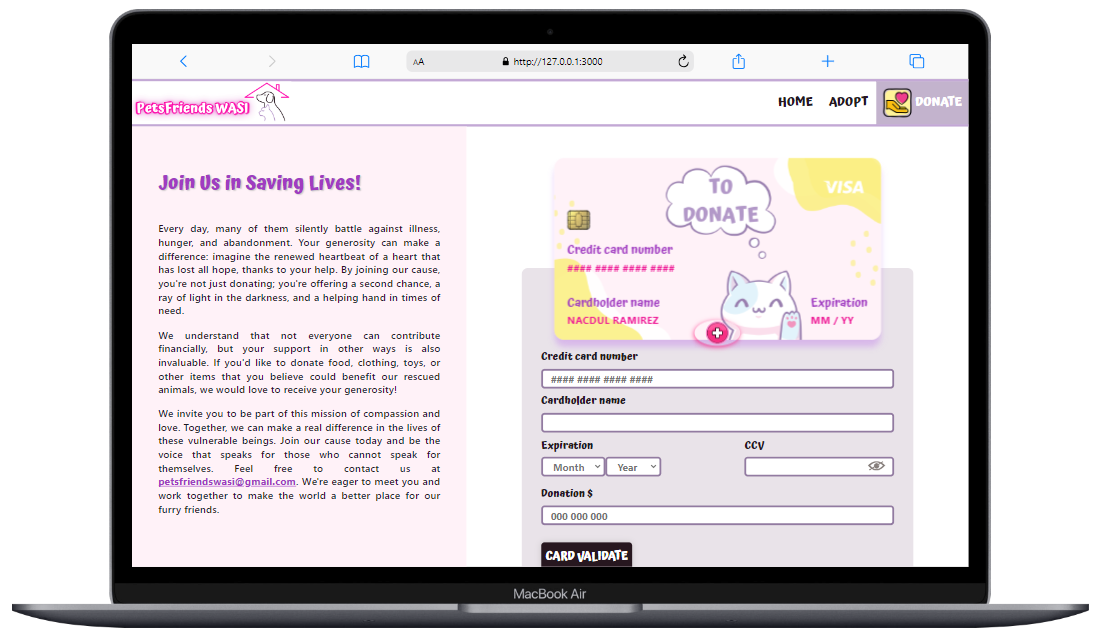
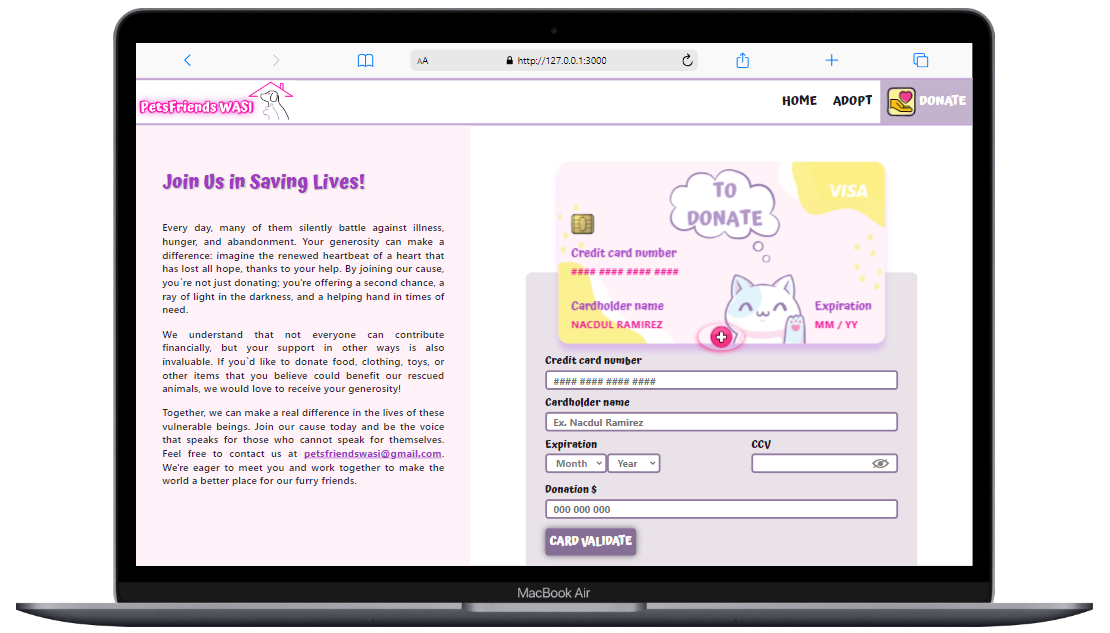
reduciendo el tamaño del modal

diff --git a/src/style.css b/src/style.css
@@ -971,7 +971,7 @@ article img{
   box-shadow: 0px 0px 15px #ff10afbd;
   width: 100%;
   max-width: 510px;
-  padding: 28px 38px;
+  padding: 20px 38px;
   border-radius: 10px;
   text-align: center;
   position: absolute;
